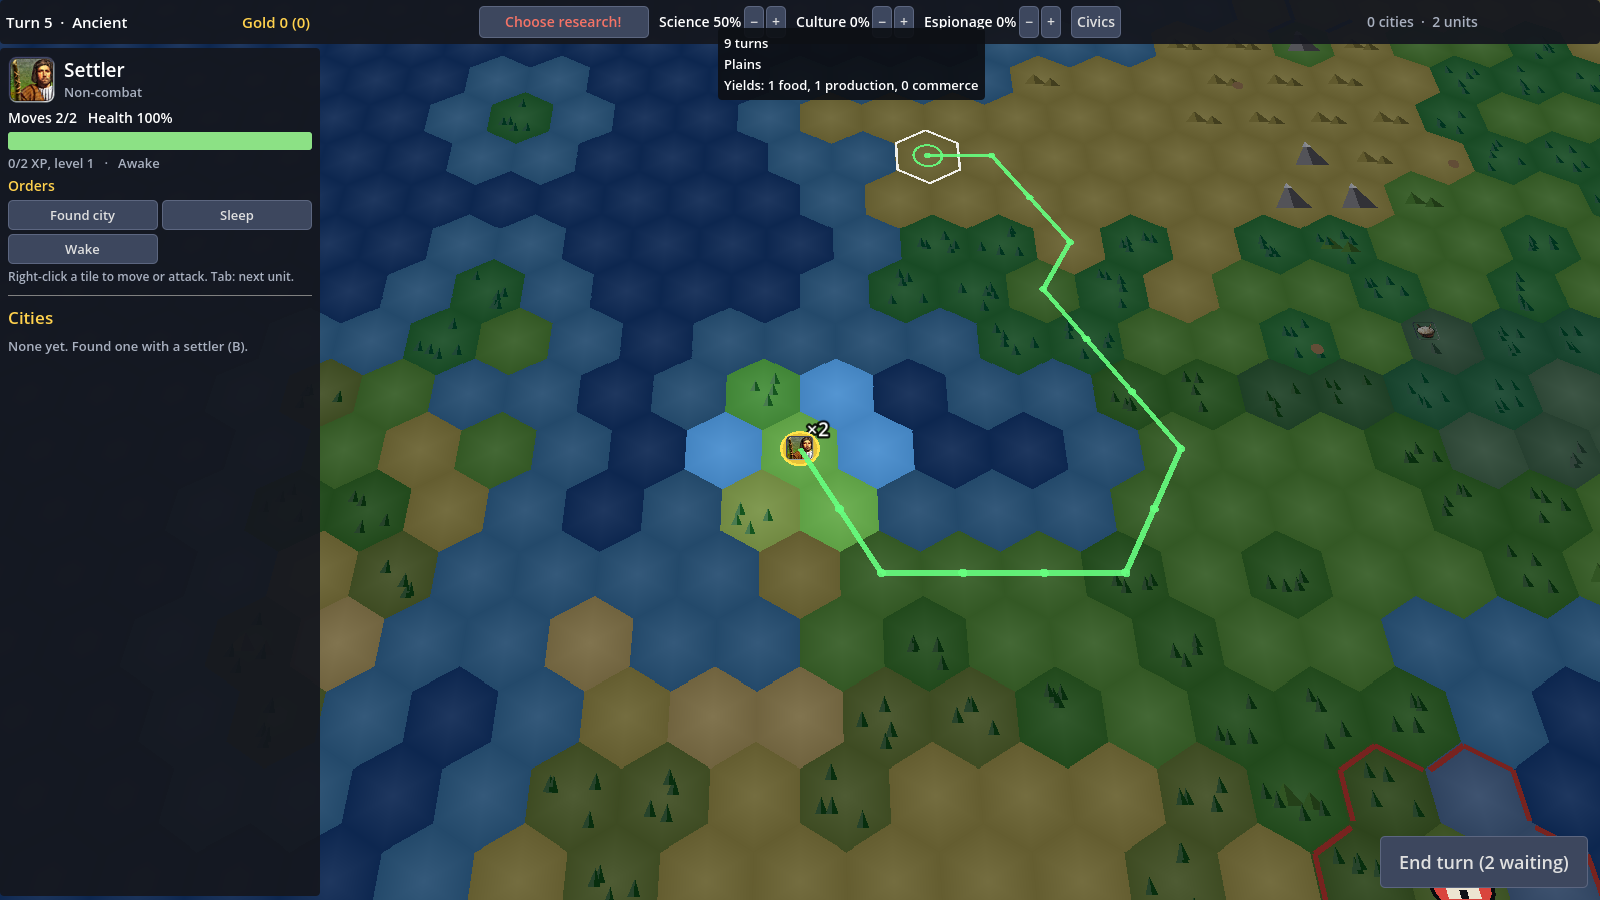
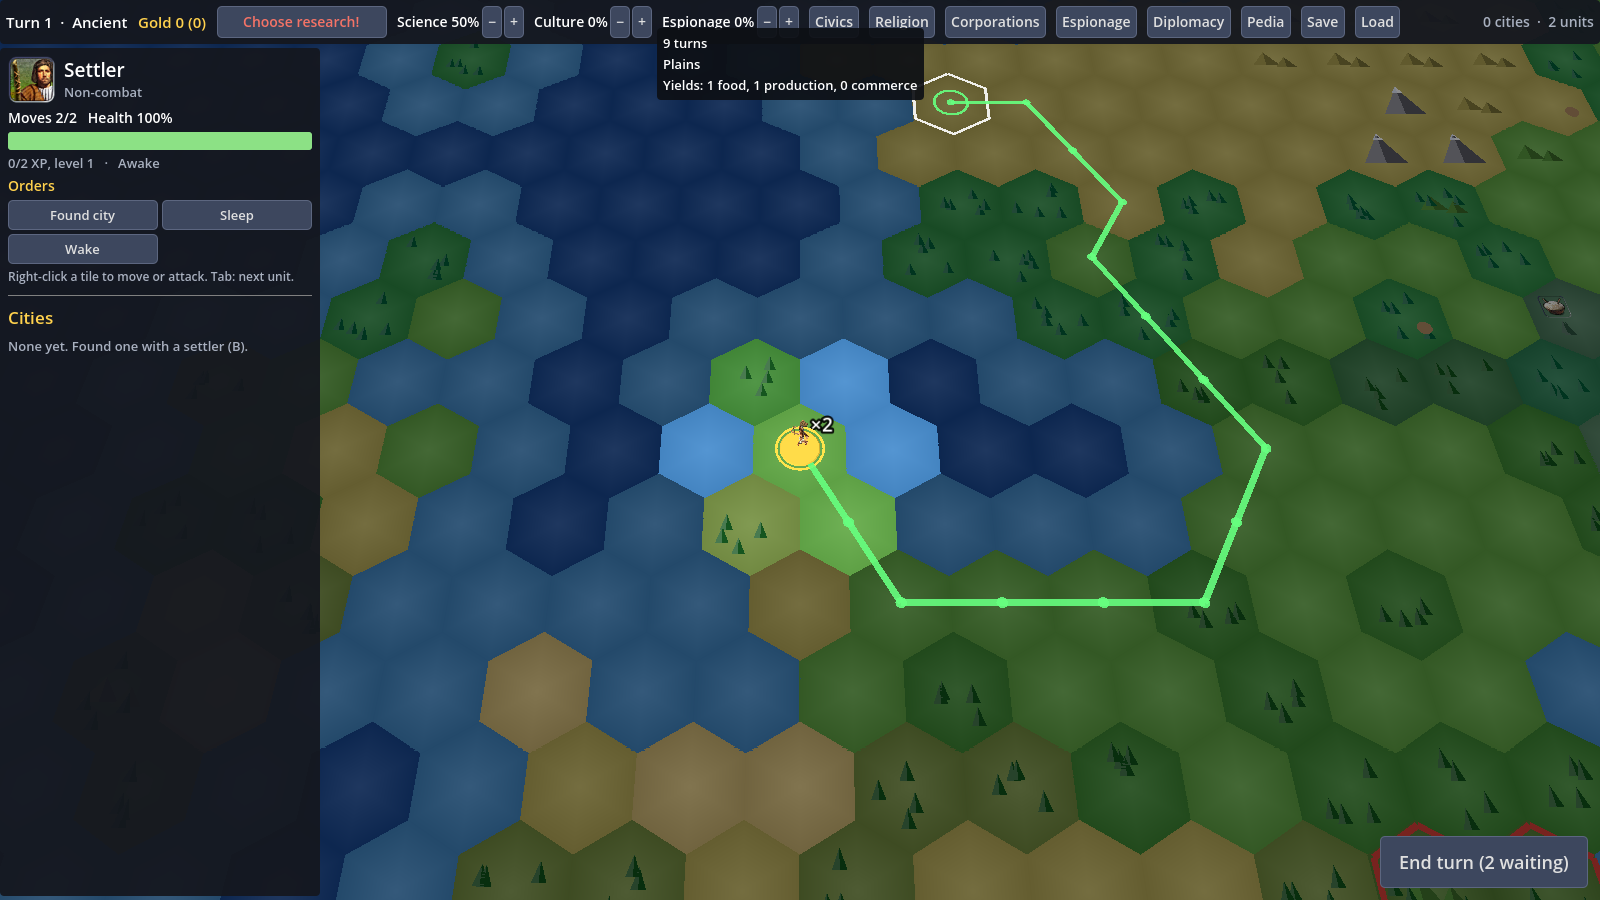
fix(render): fix Godot runtime GLB mesh conversion and PackedScene cache
Convert runtime ImporterMeshInstance3D nodes into rendering
MeshInstance3D nodes in ModelCache, cache PackedScene templates for
independent Skeleton3D and AnimationPlayer instances, fix skinned
rest-pose ground normalization and wrap-seam battle pairing, and
regenerate docs/screenshots/*.png with visible 3D units on the map.

Godot 3D Unit Rendering and Battle Fixes (src/Civ.Godot):

- Register GLTFDocumentExtensionConvertImporterMesh in ModelCache and
  pack normalized templates into PackedScene instances so each UnitActor
  has independent skeleton and animation state.

- Measure skinned vertex rest-pose bounds for accurate tile scaling and
  ground placement, restart repeated strike clips cleanly, and keep
  battle combatants wrapped together across the east-west seam.

- Regenerate docs/screenshots/*.png and update PLAN.md.

diff --git a/src/Civ.Godot/ModelCache.cs b/src/Civ.Godot/ModelCache.cs
@@ -6,33 +6,67 @@ namespace Civ.Client;
 internal sealed class ModelCache(GameCatalog catalog)
 {
     private const float TargetSize = 0.85f;
-    private readonly Dictionary<string, Node3D?> _templates = new();
+    private static readonly GltfDocumentExtensionConvertImporterMesh MeshConverter = RegisterMeshConverter();
+    private readonly Dictionary<string, PackedScene?> _templates = new();
 
     public bool Has(string type) => Template(type) != null;
 
     /// <summary>A fresh copy of the unit's model, scaled to fit one tile and standing on y = 0; null without a .glb.</summary>
-    public Node3D? Instantiate(string type) => Template(type)?.Duplicate() as Node3D;
+    public Node3D? Instantiate(string type) => Template(type)?.Instantiate<Node3D>();
 
-    private Node3D? Template(string type)
+    private PackedScene? Template(string type)
     {
         if (_templates.TryGetValue(type, out var cached)) return cached;
         return _templates[type] = Load(catalog.ModelPath(type));
     }
 
-    private static Node3D? Load(string? path)
+    private static GltfDocumentExtensionConvertImporterMesh RegisterMeshConverter()
+    {
+        // Runtime glTF import otherwise leaves non-rendering ImporterMeshInstance3D nodes.
+        var converter = new GltfDocumentExtensionConvertImporterMesh();
+        GltfDocument.RegisterGltfDocumentExtension(converter);
+        return converter;
+    }
+
+    private static PackedScene? Load(string? path)
     {
         if (path == null) return null;
+        Node3D? root = null;
         try
         {
-            var state = new GltfState();
-            if (new GltfDocument().AppendFromFile(path, state) != Error.Ok) return null;
-            if (new GltfDocument().GenerateScene(state) is not Node3D scene) return null;
-            return Normalize(scene);
+            // Keep the registered extension alive before creating the document.
+            _ = MeshConverter;
+            using var document = new GltfDocument();
+            using var state = new GltfState();
+            var error = document.AppendFromFile(path, state);
+            if (error != Error.Ok) throw new InvalidOperationException($"glTF import failed: {error}");
+            if (document.GenerateScene(state) is not Node3D scene) return null;
+            root = scene;
+            root = Normalize(scene);
+            SetOwner(root, root);
+            var packed = new PackedScene();
+            error = packed.Pack(root);
+            if (error == Error.Ok) return packed;
+            packed.Dispose();
+            throw new InvalidOperationException($"Scene packing failed: {error}");
         }
         catch (Exception e)
         {
             GD.PushWarning($"Could not load model {path}: {e.Message}");
             return null;
+        }
+        finally
+        {
+            root?.Free();
+        }
+    }
+
+    private static void SetOwner(Node node, Node root)
+    {
+        foreach (var child in node.GetChildren())
+        {
+            child.Owner = root;
+            SetOwner(child, root);
         }
     }
 
@@ -41,14 +75,70 @@ internal sealed class ModelCache(GameCatalog catalog)
         var box = new Aabb();
         bool any = false;
         Measure(scene, Transform3D.Identity, ref box, ref any);
+        if (!any || box.Size.LengthSquared() < 1e-8f) throw new InvalidOperationException("Model has no renderable geometry");
         var holder = new Node3D { Name = "Model" };
         holder.AddChild(scene);
-        if (!any || box.Size.LengthSquared() < 1e-8f) return holder;
         float scale = TargetSize / Mathf.Max(box.Size.Y, Mathf.Max(box.Size.X, box.Size.Z) * 0.8f);
         var centre = new Vector3(box.GetCenter().X, box.Position.Y, box.GetCenter().Z);
         holder.Scale = Vector3.One * scale;
         holder.Position = -centre * scale + new Vector3(0, 0.03f, 0);
         return holder;
+    }
+
+    private static Aabb Bounds(MeshInstance3D mesh, Transform3D local)
+    {
+        if (mesh.Skin is not { } skin || mesh.GetNodeOrNull<Skeleton3D>(mesh.Skeleton) is not { } skeleton)
+            return local * mesh.GetAabb();
+
+        // Raw mesh vertices are in bind space, not the character's standing pose.
+        // Godot reparents skinned meshes beneath the skeleton during import.
+        var binds = RestBinds(skin, skeleton);
+        var box = new Aabb();
+        bool any = false;
+        for (int surface = 0; surface < mesh.Mesh.GetSurfaceCount(); surface++)
+        {
+            var arrays = mesh.Mesh.SurfaceGetArrays(surface);
+            var vertices = arrays[(int)Mesh.ArrayType.Vertex].AsVector3Array();
+            if (vertices.Length == 0) continue;
+            var joints = arrays[(int)Mesh.ArrayType.Bones].AsInt32Array();
+            var weights = arrays[(int)Mesh.ArrayType.Weights].AsFloat32Array();
+            int influences = joints.Length / vertices.Length;
+            for (int i = 0; i < vertices.Length; i++)
+            {
+                var point = SkinVertex(vertices[i], i * influences, influences, joints, weights, binds);
+                box = any ? box.Expand(point) : new Aabb(point, Vector3.Zero);
+                any = true;
+            }
+        }
+        return ModelTransform(skeleton) * box;
+    }
+
+    private static Transform3D[] RestBinds(Skin skin, Skeleton3D skeleton)
+    {
+        var binds = new Transform3D[skin.GetBindCount()];
+        for (int i = 0; i < binds.Length; i++)
+        {
+            int bone = skin.GetBindBone(i);
+            if (bone < 0) bone = skeleton.FindBone(skin.GetBindName(i));
+            if (bone < 0) throw new InvalidOperationException("Model has an unresolved skin binding");
+            binds[i] = skeleton.GetBoneGlobalRest(bone) * skin.GetBindPose(i);
+        }
+        return binds;
+    }
+
+    private static Vector3 SkinVertex(Vector3 vertex, int offset, int influences, int[] joints, float[] weights, Transform3D[] binds)
+    {
+        var point = Vector3.Zero;
+        for (int i = offset; i < offset + influences; i++) point += (binds[joints[i]] * vertex) * weights[i];
+        return point;
+    }
+
+    private static Transform3D ModelTransform(Node3D node)
+    {
+        var transform = node.Transform;
+        for (var parent = node.GetParent(); parent != null; parent = parent.GetParent())
+            if (parent is Node3D spatial) transform = spatial.Transform * transform;
+        return transform;
     }
 
     private static void Measure(Node node, Transform3D parent, ref Aabb box, ref bool any)
@@ -57,7 +147,7 @@ internal sealed class ModelCache(GameCatalog catalog)
         if (node is Node3D n3) local = parent * n3.Transform;
         if (node is MeshInstance3D { Mesh: not null } mesh)
         {
-            var b = local * mesh.GetAabb();
+            var b = Bounds(mesh, local);
             box = any ? box.Merge(b) : b;
             any = true;
         }

diff --git a/src/Civ.Godot/Main.cs b/src/Civ.Godot/Main.cs
@@ -3,7 +3,7 @@ using Godot;
 namespace Civ.Client;
 
 /// <summary>Command-line switches for automated screenshots (after <c>--</c> on the Godot command line).</summary>
-internal sealed class DebugOptions
+internal sealed record DebugOptions
 {
     public string? ScreenshotPath { get; private init; }
     public string Stage { get; private init; } = "setup";
@@ -26,6 +26,13 @@ internal sealed class DebugOptions
         }.Normalized();
     }
 
+    public DebugOptions ForScreenshot(string stage) => this with
+    {
+        ScreenshotPath = ProjectSettings.GlobalizePath($"res://../../docs/screenshots/{stage}.png"),
+        Stage = stage, Frames = 90, Turns = stage == "city" ? 3 : 0,
+        Reveal = stage is "world" or "path", Zoom = stage == "map" ? -10 : stage == "world" ? 18 : 0,
+    };
+
     private DebugOptions Normalized() => ScreenshotPath is { Length: 0 } ? new DebugOptions
     {
         ScreenshotPath = null, Stage = Stage, Frames = Frames, Turns = Turns, World = World, Opponents = Opponents, Seed = Seed, Reveal = Reveal, Zoom = Zoom,
@@ -35,7 +42,8 @@ internal sealed class DebugOptions
 /// <summary>Godot entry point: loads the mods once, shows the setup screen, then the game. All rules live in the mods and Client.Core.</summary>
 public partial class Main : Node3D
 {
-    private readonly DebugOptions _debug = DebugOptions.Parse(OS.GetCmdlineUserArgs());
+    private DebugOptions _debug = DebugOptions.Parse(OS.GetCmdlineUserArgs());
+    private readonly Queue<string> _screenshotStages = new();
     private readonly Label _status = new() { Text = "Loading mods…" };
     private Task<GameCatalog>? _loading;
     private Task<GameSession>? _starting;
@@ -47,6 +55,12 @@ public partial class Main : Node3D
 
     public override void _Ready()
     {
+        if (OS.GetCmdlineUserArgs().Contains("--screenshots"))
+        {
+            foreach (var stage in new[] { "setup", "map", "city", "civics", "research", "path", "world" }) _screenshotStages.Enqueue(stage);
+            _debug = _debug.ForScreenshot(_screenshotStages.Dequeue());
+            GetWindow().Size = new Vector2I(1600, 900);
+        }
         var layer = new CanvasLayer();
         _status.AddThemeFontSizeOverride("font_size", 24);
         _status.Position = new Vector2(40, 40);
@@ -184,6 +198,16 @@ public partial class Main : Node3D
         System.IO.Directory.CreateDirectory(System.IO.Path.GetDirectoryName(path)!);
         var error = image.SavePng(path);
         GD.Print($"screenshot {path}: {error}");
+        if (error == Error.Ok && _screenshotStages.Count > 0)
+        {
+            _game?.QueueFree();
+            _setup?.QueueFree();
+            _game = null;
+            _setup = null;
+            _debug = _debug.ForScreenshot(_screenshotStages.Dequeue());
+            ShowSetup();
+            return;
+        }
         GetTree().Quit(error == Error.Ok ? 0 : 1);
     }
 }

diff --git a/src/Civ.Godot/UnitActor.cs b/src/Civ.Godot/UnitActor.cs
@@ -51,12 +51,15 @@ internal sealed partial class UnitActor : Node3D
     }
 
     /// <summary>Play a clip by state name (idle, run, fortify, attack, hurt, die); false when the model has none.</summary>
-    public bool Play(string state)
+    public bool Play(string state, float duration = 0)
     {
         if (!_clips.TryGetValue(state, out var clip) && !(state == "fortify" && _clips.TryGetValue("idle", out clip))) { _state = state; return false; }
-        if (_player != null && (_state != state || !_player.IsPlaying()))
+        if (_player != null && (_state != state || !_player.IsPlaying() || state is "attack" or "hurt" or "die"))
         {
-            _player.Play(clip);
+            // Each blow restarts its one-shot clip. Fit it to the battle phase instead of cutting it off.
+            _player.Stop();
+            var length = _player.GetAnimation(clip).Length;
+            _player.Play(clip, customSpeed: duration > 0 ? (float)length / duration : 1);
         }
         _state = state;
         return true;
@@ -83,10 +86,11 @@ internal sealed partial class UnitActor : Node3D
         {
             foreach (var alias in aliases)
             {
-                var name = names.FirstOrDefault(n => string.Equals(n, alias, StringComparison.OrdinalIgnoreCase));
+                var name = names.FirstOrDefault(n => string.Equals(n.Split('/')[^1], alias, StringComparison.OrdinalIgnoreCase));
                 if (name == null) continue;
                 _clips[state] = name;
-                if (state is "idle" or "run" or "fortify" && player.GetAnimation(name) is { } animation) animation.LoopMode = Animation.LoopModeEnum.Linear;
+                if (player.GetAnimation(name) is { } animation)
+                    animation.LoopMode = state is "idle" or "run" or "fortify" ? Animation.LoopModeEnum.Linear : Animation.LoopModeEnum.None;
                 break;
             }
         }

diff --git a/src/Civ.Godot/MapRenderer.Units.cs b/src/Civ.Godot/MapRenderer.Units.cs
@@ -47,7 +47,7 @@ internal sealed partial class MapRenderer
                 _actors[unit.Id] = actor;
                 AddChild(actor);
             }
-            actor.Anchor = new Vector3(at.X, YTokens, at.Z);
+            actor.Anchor = at;
             actor.Position = actor.Anchor;
             actor.Rotation = new Vector3(0, FacingOf(unit), 0);
             actor.Play(_session.ActivityOf(unit) is UnitActivity.Fortify or UnitActivity.Sentry ? "fortify" : "idle");
@@ -164,7 +164,7 @@ internal sealed partial class MapRenderer
             a.Lunge = d.Lunge = a.Shake = d.Shake = 0;
             var (winner, loser) = b.Playback.WinnerId == b.Playback.AttackerId ? (a, d) : (d, a);
             winner.Play("idle");
-            if (b.Playback.LoserDied) loser.Play("die"); else loser.Play("idle");
+            if (b.Playback.LoserDied) loser.Play("die", FinaleTime); else loser.Play("idle");
         }
         float f = Mathf.Clamp((b.Time - strikesEnd) / FinaleTime, 0f, 1f);
         if (b.Playback.LoserDied)
@@ -186,13 +186,13 @@ internal sealed partial class MapRenderer
         if (i != b.Strike)
         {
             b.Strike = i;
-            hitter.Play("attack");
-            victim.Play("hurt");
+            hitter.Play("attack", StrikeTime);
+            victim.Play("hurt", StrikeTime);
         }
-        hitter.Lunge = Mathf.Sin(f * Mathf.Pi) * MaxLunge;
+        hitter.Lunge = hitter.HasClip("attack") ? 0 : Mathf.Sin(f * Mathf.Pi) * MaxLunge;
         hitter.Shake = 0;
         victim.Lunge = 0;
-        victim.Shake = f > 0.4f ? Mathf.Sin(f * 50f) * 0.05f * (1 - f) : 0;
+        victim.Shake = !victim.HasClip("hurt") && f > 0.4f ? Mathf.Sin(f * 50f) * 0.05f * (1 - f) : 0;
     }
 
     private void EndBattle(Battle b)

diff --git a/PLAN.md b/PLAN.md
@@ -296,13 +296,10 @@ Keep this list current. It is the source of truth for where the work is.
   (`8b6bf43`).
 - [x] Corporate maintenance integration into `CityMaintenance` and Economy deficit slider adjustment (`2f2f31c`).
 - [x] P8: unit 3D art conversion (`tools/art/convert_units.py` converting 357/359 units to `.glb` with `idle`, `run`,
-  `fortify`, `attack`, `hurt`, `die` clips + `tools/art/report.md`) (`6b131c7`).
+  `fortify`, `attack`, `hurt`, `die` clips + `tools/art/report.md`) (`6b131c7`, `3e70cb3`).
 - [x] World-map 3D unit rendering and Civ 4-style combat attack/death animation playback in `Civ.Client.Core` and
-  `Civ.Godot`.
-
-### Next
-
-- [ ] End-to-end Godot 3D unit & battle animation smoke test and screenshot capture.
+  `Civ.Godot` (`aa5e82e`, `3b1b013`).
+- [x] End-to-end Godot 3D unit & battle animation verification and `docs/screenshots/*.png` regeneration.
 
 ### Working conventions
 
